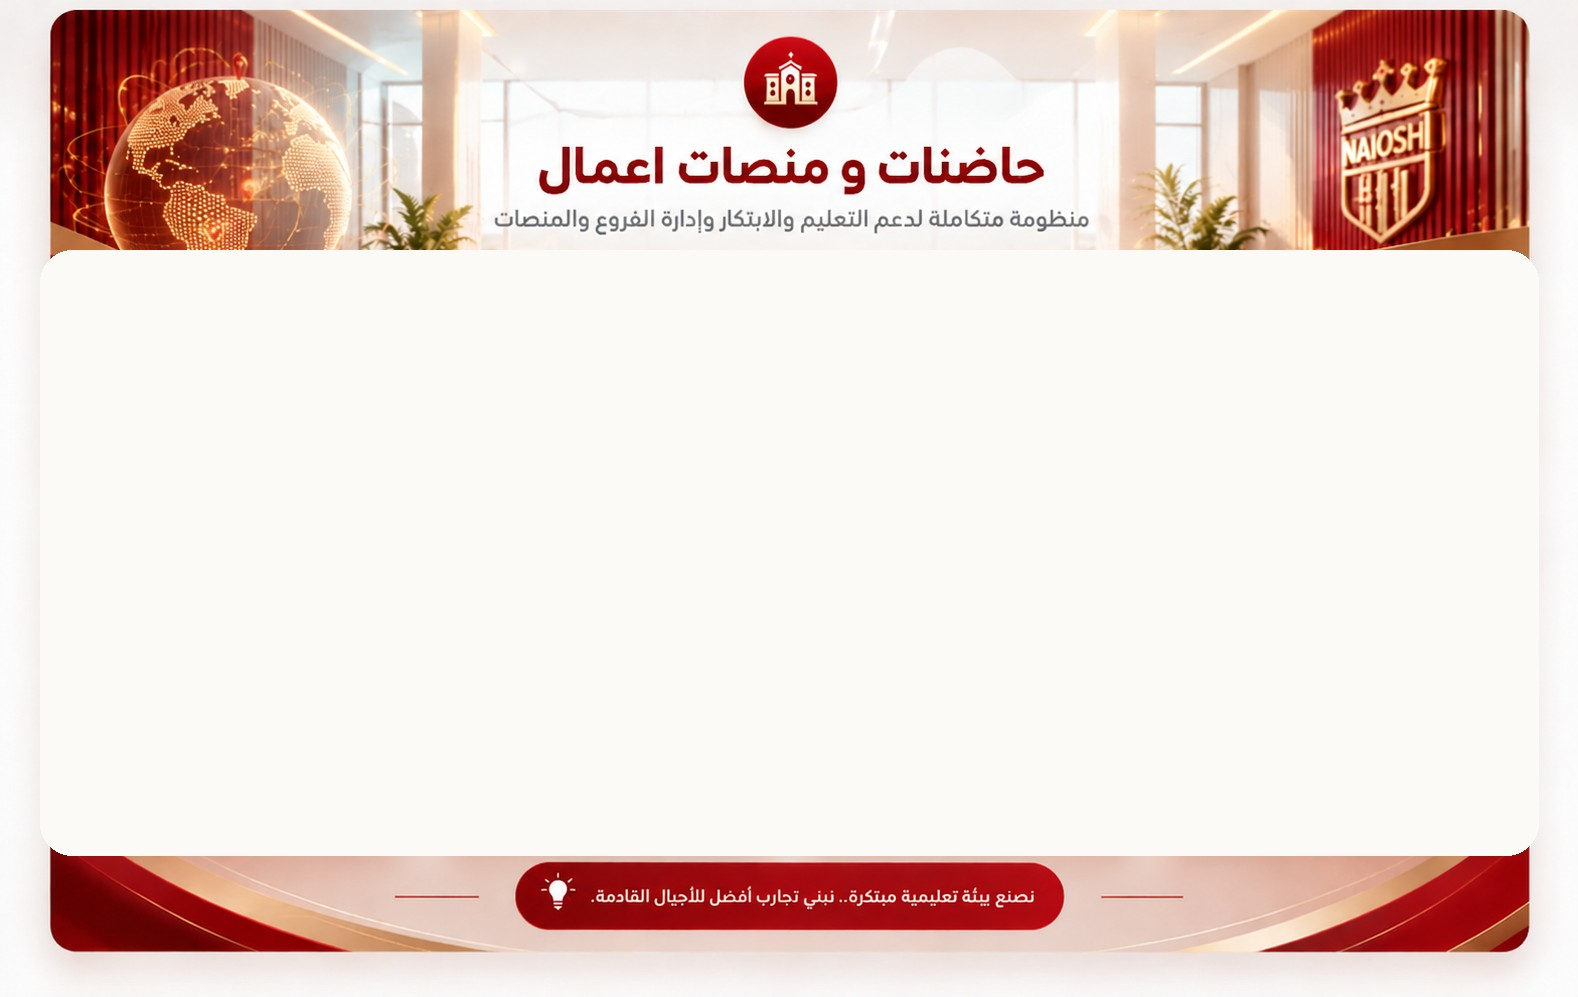
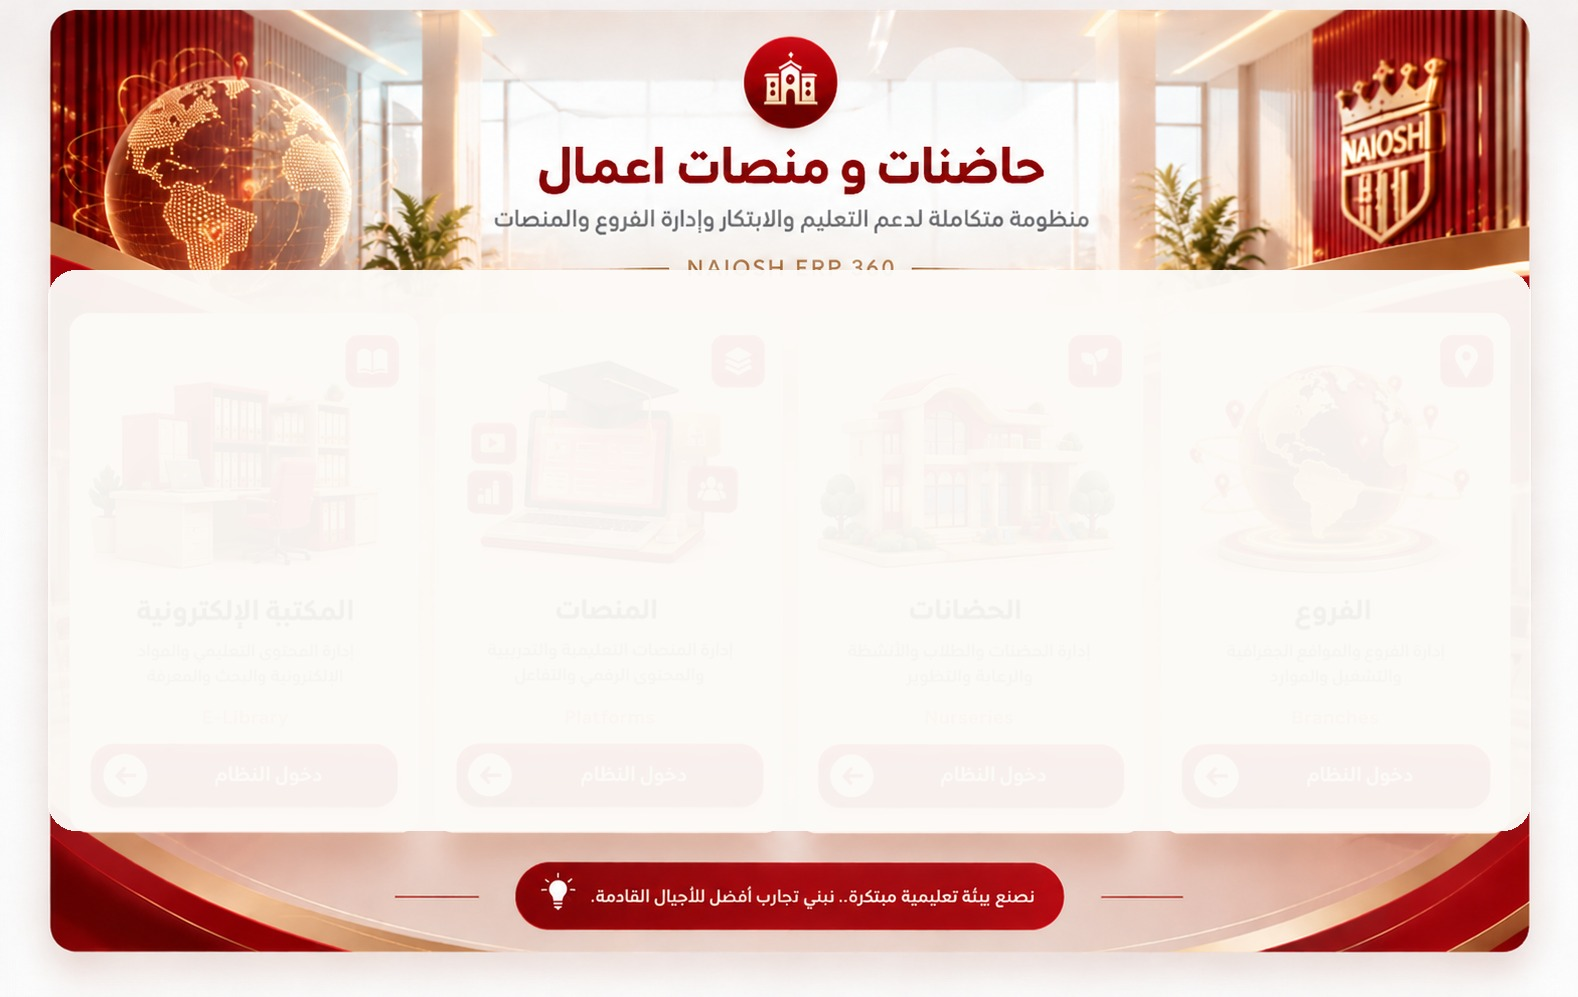
Polish Incubators & Platforms portal visuals against approved design.
Tighten the architectural background, circular header crest crop, and red
frame overlays while keeping card order, links, and menu wiring unchanged.

diff --git a/incubators-platforms.html b/incubators-platforms.html
@@ -50,10 +50,10 @@
       min-height: calc(100vh - 28px);
       display: flex;
       flex-direction: column;
-      padding: 36px 36px 22px;
+      padding: 32px 32px 20px;
       background:
-        linear-gradient(180deg, rgba(255,255,255,0.18) 0%, rgba(255,252,248,0.55) 28%, rgba(255,252,248,0.72) 70%, rgba(120, 20, 35, 0.35) 100%),
-        url("/public/incubators-platforms/bg-stage.jpg") center / cover no-repeat;
+        linear-gradient(180deg, rgba(255,255,255,0.05) 0%, rgba(255,252,248,0.25) 35%, rgba(255,252,248,0.35) 72%, rgba(90, 12, 22, 0.22) 100%),
+        url("/public/incubators-platforms/bg-stage.jpg") center top / cover no-repeat;
       box-shadow: 0 24px 60px rgba(0, 0, 0, 0.4);
     }
 
@@ -61,36 +61,23 @@
     .stage::after {
       content: "";
       position: absolute;
-      left: -8%;
-      right: -8%;
-      height: 140px;
+      left: -12%;
+      right: -12%;
       pointer-events: none;
       z-index: 0;
-      background: radial-gradient(ellipse at center, rgba(154, 16, 32, 0.92) 0%, rgba(122, 12, 24, 0.88) 45%, transparent 72%);
-      filter: blur(0.2px);
     }
-    .stage::before { top: -70px; }
+    .stage::before {
+      top: -90px;
+      height: 170px;
+      background: radial-gradient(ellipse 90% 100% at 50% 100%, rgba(154, 16, 32, 0.95) 0%, rgba(122, 12, 24, 0.75) 40%, transparent 70%);
+    }
     .stage::after {
-      bottom: -80px;
-      height: 160px;
-      background: radial-gradient(ellipse at center, rgba(122, 12, 24, 0.95) 0%, rgba(90, 8, 18, 0.9) 50%, transparent 75%);
+      bottom: -100px;
+      height: 190px;
+      background: radial-gradient(ellipse 95% 100% at 50% 0%, rgba(122, 12, 24, 0.98) 0%, rgba(90, 8, 18, 0.85) 42%, transparent 72%);
     }
 
-    .glow-globe {
-      position: absolute;
-      left: -4%;
-      top: 6%;
-      width: min(420px, 42vw);
-      height: min(420px, 42vw);
-      border-radius: 50%;
-      pointer-events: none;
-      z-index: 0;
-      background:
-        radial-gradient(circle at 45% 45%, rgba(255, 210, 120, 0.35), transparent 55%),
-        radial-gradient(circle at 50% 50%, rgba(180, 30, 45, 0.18), transparent 60%);
-      filter: blur(2px);
-      opacity: 0.85;
-    }
+    .glow-globe { display: none; }
 
     .content {
       position: relative;
@@ -127,20 +114,20 @@
     }
 
     .header-icon {
-      width: 64px;
-      height: 64px;
+      width: 68px;
+      height: 68px;
       margin: 0 auto 12px;
       border-radius: 50%;
       overflow: hidden;
       box-shadow: 0 10px 22px rgba(140, 16, 28, 0.28);
-      background: var(--royal);
+      background: transparent;
       display: grid;
       place-items: center;
     }
     .header-icon img {
       width: 100%;
       height: 100%;
-      object-fit: cover;
+      object-fit: contain;
       display: block;
     }
 
